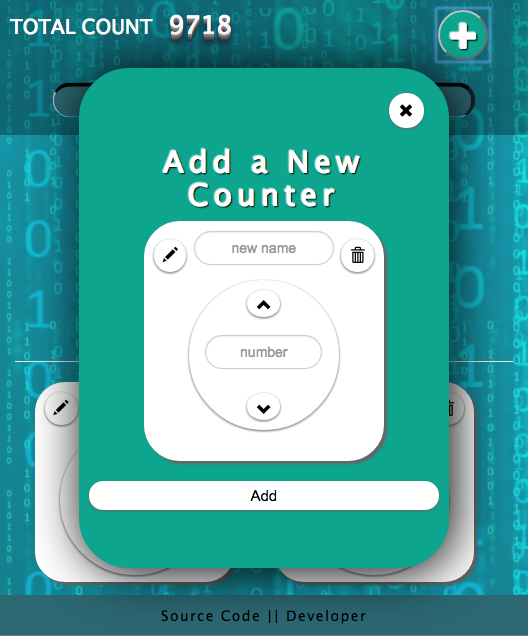
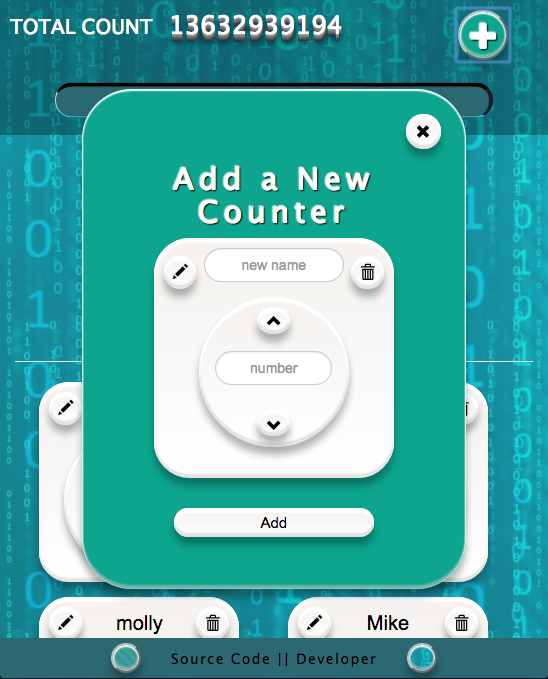
updated snapshots

diff --git a/client/css/main.css b/client/css/main.css
@@ -1,6 +1,7 @@
 body {
   font: 14px 'Lucida Grande', Helvetica, Arial, sans-serif;
-  background-image: url('../images/count2.png');
+  background: #739aa0;
+  /*background-image: url('../images/count2.png');*/
 }
 /* Buttons by Footer that control Background */
 .bg {
